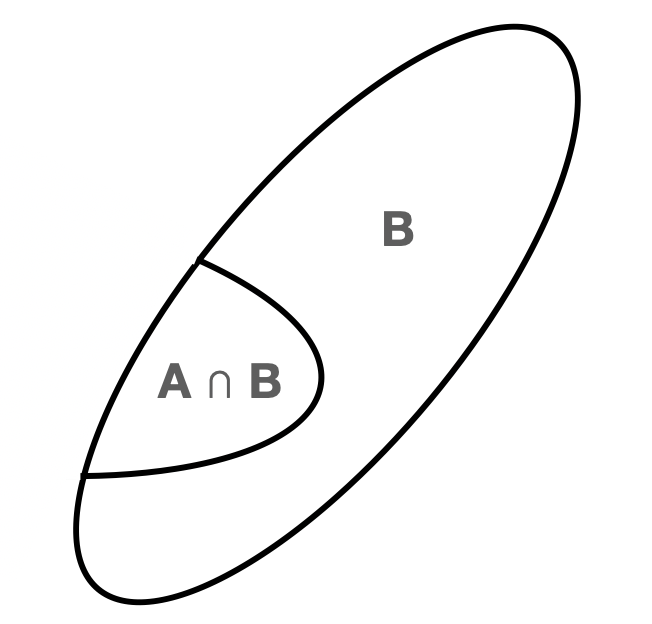
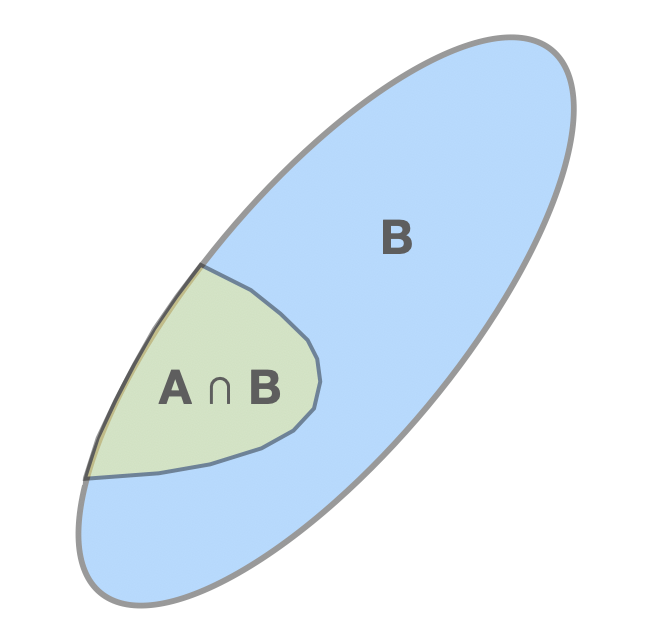
adding color to figures. -pef

diff --git a/01-probability.html b/01-probability.html
@@ -2,17 +2,23 @@
 <html xmlns="http://www.w3.org/1999/xhtml" lang="en" xml:lang="en"><head>
 
 <meta charset="utf-8">
-<meta name="generator" content="quarto-1.7.32">
+<meta name="generator" content="quarto-1.10.18">
 
 <meta name="viewport" content="width=device-width, initial-scale=1.0, user-scalable=yes">
 
 
 <title>1&nbsp; The Basics of Probability and Statistical Inference – Modern Probability and Statistical Inference</title>
 <style>
-code{white-space: pre-wrap;}
+/* Default styles provided by pandoc.
+** See https://pandoc.org/MANUAL.html#variables-for-html for config info.
+*/
 span.smallcaps{font-variant: small-caps;}
-div.columns{display: flex; gap: min(4vw, 1.5em);}
-div.column{flex: auto; overflow-x: auto;}
+div.columns{display: flex; gap: 1.5em;}
+div.column{flex: auto;}
+@media screen {
+div.columns{gap: min(4vw, 1.5em);}
+div.column{overflow-x: auto;}
+}
 div.hanging-indent{margin-left: 1.5em; text-indent: -1.5em;}
 ul.task-list{list-style: none;}
 ul.task-list li input[type="checkbox"] {
@@ -59,7 +65,6 @@ pre > code.sourceCode > span > a:first-child::before { text-decoration: underlin
 div.csl-bib-body { }
 div.csl-entry {
   clear: both;
-  margin-bottom: 0em;
 }
 .hanging-indent div.csl-entry {
   margin-left:2em;
@@ -93,10 +98,10 @@ div.csl-indent {
 <script src="site_libs/quarto-html/tippy.umd.min.js"></script>
 <script src="site_libs/quarto-html/anchor.min.js"></script>
 <link href="site_libs/quarto-html/tippy.css" rel="stylesheet">
-<link href="site_libs/quarto-html/quarto-syntax-highlighting-37eea08aefeeee20ff55810ff984fec1.css" rel="stylesheet" id="quarto-text-highlighting-styles">
+<link href="site_libs/quarto-html/quarto-syntax-highlighting-64a204ab8560d761af7679ceaba22944.css" rel="stylesheet" id="quarto-text-highlighting-styles">
 <script src="site_libs/bootstrap/bootstrap.min.js"></script>
 <link href="site_libs/bootstrap/bootstrap-icons.css" rel="stylesheet">
-<link href="site_libs/bootstrap/bootstrap-485d01fc63b59abcd3ee1bf1e8e2748d.min.css" rel="stylesheet" append-hash="true" id="quarto-bootstrap" data-mode="light">
+<link href="site_libs/bootstrap/bootstrap-d3f7f8e73c8d287b30bcf59c2b563615.min.css" rel="stylesheet" append-hash="true" id="quarto-bootstrap" data-mode="light">
 <script id="quarto-search-options" type="application/json">{
   "location": "sidebar",
   "copy-button": false,
@@ -126,7 +131,7 @@ div.csl-indent {
 }</script>
 
   <script src="https://cdnjs.cloudflare.com/polyfill/v3/polyfill.min.js?features=es6"></script>
-  <script src="https://cdn.jsdelivr.net/npm/mathjax@3/es5/tex-chtml-full.js" type="text/javascript"></script>
+  <script defer="" src="https://cdn.jsdelivr.net/npm/mathjax@4/tex-chtml.js" type="text/javascript"></script>
 
 <script type="text/javascript">
 const typesetMath = (el) => {
@@ -139,7 +144,7 @@ const typesetMath = (el) => {
     var macros = [];
     for (var i = 0; i < mathElements.length; i++) {
       var texText = mathElements[i].firstChild;
-      if (mathElements[i].tagName == "SPAN") {
+      if (mathElements[i].tagName == "SPAN" && texText && texText.data) {
         window.katex.render(texText.data, mathElements[i], {
           displayMode: mathElements[i].classList.contains('display'),
           throwOnError: false,
@@ -551,7 +556,7 @@ Figure&nbsp;1.2: This is an example of a sample space <span class="math inline">
 </ul>
 <p>Regarding the last point above: while we may not know the probability of observing any simple event, there are some things we can say about its long-term relative frequency of occurrence:</p>
 <ol type="1">
-<li>it must be <span class="math inline">\(&gt; 0\)</span> and <span class="math inline">\(\leq 1\)</span>;</li>
+<li>it must be <span class="math inline">\(\geq 0\)</span> and <span class="math inline">\(\leq 1\)</span>;</li>
 <li>the relative frequencies of all simple events in <span class="math inline">\(\Omega\)</span> must sum to 1; and</li>
 <li>the relative frequency of a compound event must equal the sum of the relative frequencies of its component simple events.</li>
 </ol>
@@ -1292,14 +1297,14 @@ V[X] = E[X^2] - (E[X])^2 = \frac{\theta}{\theta+2} - \frac{\theta^2}{(\theta+1)^
 <div class="cell">
 <details class="code-fold">
 <summary>Code</summary>
-<div class="sourceCode cell-code" id="cb3"><pre class="sourceCode r code-with-copy"><code class="sourceCode r"><span id="cb3-1"><a href="#cb3-1" aria-hidden="true" tabindex="-1"></a>x <span class="ot">&lt;-</span> <span class="fu">c</span>(<span class="st">"Hello, world!"</span>)</span></code><button title="Copy to Clipboard" class="code-copy-button"><i class="bi"></i></button></pre></div>
+<div class="code-copy-outer-scaffold"><div class="sourceCode cell-code" id="cb3"><pre class="sourceCode r code-with-copy"><code class="sourceCode r"><span id="cb3-1"><a href="#cb3-1" aria-hidden="true" tabindex="-1"></a>x <span class="ot">&lt;-</span> <span class="fu">c</span>(<span class="st">"Hello, world!"</span>)</span></code></pre></div><button title="Copy to Clipboard" class="code-copy-button"><i class="bi"></i></button></div>
 </details>
 </div>
 <p>(The reader should feel free to open <code>R</code> and type in these lines at the <code>Console</code> prompt.) In this example, we define a vector of character strings which we name <code>x</code>; here, <code>x</code> has length 1:</p>
 <div class="cell">
 <details class="code-fold">
 <summary>Code</summary>
-<div class="sourceCode cell-code" id="cb4"><pre class="sourceCode r code-with-copy"><code class="sourceCode r"><span id="cb4-1"><a href="#cb4-1" aria-hidden="true" tabindex="-1"></a><span class="fu">length</span>(x)</span></code><button title="Copy to Clipboard" class="code-copy-button"><i class="bi"></i></button></pre></div>
+<div class="code-copy-outer-scaffold"><div class="sourceCode cell-code" id="cb4"><pre class="sourceCode r code-with-copy"><code class="sourceCode r"><span id="cb4-1"><a href="#cb4-1" aria-hidden="true" tabindex="-1"></a><span class="fu">length</span>(x)</span></code></pre></div><button title="Copy to Clipboard" class="code-copy-button"><i class="bi"></i></button></div>
 </details>
 <div class="cell-output cell-output-stdout">
 <pre><code>[1] 1</code></pre>
@@ -1309,15 +1314,15 @@ V[X] = E[X^2] - (E[X])^2 = \frac{\theta}{\theta+2} - \frac{\theta^2}{(\theta+1)^
 <div class="cell">
 <details class="code-fold">
 <summary>Code</summary>
-<div class="sourceCode cell-code" id="cb6"><pre class="sourceCode r code-with-copy"><code class="sourceCode r"><span id="cb6-1"><a href="#cb6-1" aria-hidden="true" tabindex="-1"></a>x <span class="ot">&lt;-</span> <span class="fu">c</span>(<span class="dv">1</span>, <span class="dv">2</span>, <span class="dv">4</span>, <span class="dv">8</span>)</span>
-<span id="cb6-2"><a href="#cb6-2" aria-hidden="true" tabindex="-1"></a><span class="fu">print</span>(x)</span></code><button title="Copy to Clipboard" class="code-copy-button"><i class="bi"></i></button></pre></div>
+<div class="code-copy-outer-scaffold"><div class="sourceCode cell-code" id="cb6"><pre class="sourceCode r code-with-copy"><code class="sourceCode r"><span id="cb6-1"><a href="#cb6-1" aria-hidden="true" tabindex="-1"></a>x <span class="ot">&lt;-</span> <span class="fu">c</span>(<span class="dv">1</span>, <span class="dv">2</span>, <span class="dv">4</span>, <span class="dv">8</span>)</span>
+<span id="cb6-2"><a href="#cb6-2" aria-hidden="true" tabindex="-1"></a><span class="fu">print</span>(x)</span></code></pre></div><button title="Copy to Clipboard" class="code-copy-button"><i class="bi"></i></button></div>
 </details>
 <div class="cell-output cell-output-stdout">
 <pre><code>[1] 1 2 4 8</code></pre>
 </div>
 <details class="code-fold">
 <summary>Code</summary>
-<div class="sourceCode cell-code" id="cb8"><pre class="sourceCode r code-with-copy"><code class="sourceCode r"><span id="cb8-1"><a href="#cb8-1" aria-hidden="true" tabindex="-1"></a><span class="fu">length</span>(x)</span></code><button title="Copy to Clipboard" class="code-copy-button"><i class="bi"></i></button></pre></div>
+<div class="code-copy-outer-scaffold"><div class="sourceCode cell-code" id="cb8"><pre class="sourceCode r code-with-copy"><code class="sourceCode r"><span id="cb8-1"><a href="#cb8-1" aria-hidden="true" tabindex="-1"></a><span class="fu">length</span>(x)</span></code></pre></div><button title="Copy to Clipboard" class="code-copy-button"><i class="bi"></i></button></div>
 </details>
 <div class="cell-output cell-output-stdout">
 <pre><code>[1] 4</code></pre>
@@ -1327,9 +1332,9 @@ V[X] = E[X^2] - (E[X])^2 = \frac{\theta}{\theta+2} - \frac{\theta^2}{(\theta+1)^
 <div class="cell">
 <details class="code-fold">
 <summary>Code</summary>
-<div class="sourceCode cell-code" id="cb10"><pre class="sourceCode r code-with-copy"><code class="sourceCode r"><span id="cb10-1"><a href="#cb10-1" aria-hidden="true" tabindex="-1"></a>x <span class="ot">&lt;-</span> <span class="fu">seq</span>(<span class="dv">0</span>, pi, <span class="at">by =</span> <span class="fl">0.01</span>)  <span class="co"># 0, 0.01, 0.02, ..., 3.14 (but not 3.15)</span></span>
+<div class="code-copy-outer-scaffold"><div class="sourceCode cell-code" id="cb10"><pre class="sourceCode r code-with-copy"><code class="sourceCode r"><span id="cb10-1"><a href="#cb10-1" aria-hidden="true" tabindex="-1"></a>x <span class="ot">&lt;-</span> <span class="fu">seq</span>(<span class="dv">0</span>, pi, <span class="at">by =</span> <span class="fl">0.01</span>)  <span class="co"># 0, 0.01, 0.02, ..., 3.14 (but not 3.15)</span></span>
 <span id="cb10-2"><a href="#cb10-2" aria-hidden="true" tabindex="-1"></a>                            <span class="co"># pi and Inf are built-in constants</span></span>
-<span id="cb10-3"><a href="#cb10-3" aria-hidden="true" tabindex="-1"></a><span class="fu">length</span>(x)</span></code><button title="Copy to Clipboard" class="code-copy-button"><i class="bi"></i></button></pre></div>
+<span id="cb10-3"><a href="#cb10-3" aria-hidden="true" tabindex="-1"></a><span class="fu">length</span>(x)</span></code></pre></div><button title="Copy to Clipboard" class="code-copy-button"><i class="bi"></i></button></div>
 </details>
 <div class="cell-output cell-output-stdout">
 <pre><code>[1] 315</code></pre>
@@ -1342,9 +1347,9 @@ f_X(x) = \left\{ \begin{array}{cl} c x \sin x &amp; 0 \leq x \leq \pi \\ 0 &amp;
 <div class="cell">
 <details class="code-fold">
 <summary>Code</summary>
-<div class="sourceCode cell-code" id="cb12"><pre class="sourceCode r code-with-copy"><code class="sourceCode r"><span id="cb12-1"><a href="#cb12-1" aria-hidden="true" tabindex="-1"></a>x   <span class="ot">&lt;-</span> <span class="fu">seq</span>(<span class="dv">0</span>, pi, <span class="at">by =</span> pi <span class="sc">/</span> <span class="dv">100</span>)</span>
+<div class="code-copy-outer-scaffold"><div class="sourceCode cell-code" id="cb12"><pre class="sourceCode r code-with-copy"><code class="sourceCode r"><span id="cb12-1"><a href="#cb12-1" aria-hidden="true" tabindex="-1"></a>x   <span class="ot">&lt;-</span> <span class="fu">seq</span>(<span class="dv">0</span>, pi, <span class="at">by =</span> pi <span class="sc">/</span> <span class="dv">100</span>)</span>
 <span id="cb12-2"><a href="#cb12-2" aria-hidden="true" tabindex="-1"></a>f.x <span class="ot">&lt;-</span> x <span class="sc">*</span> <span class="fu">sin</span>(x)            </span>
-<span id="cb12-3"><a href="#cb12-3" aria-hidden="true" tabindex="-1"></a><span class="fu">min</span>(f.x)</span></code><button title="Copy to Clipboard" class="code-copy-button"><i class="bi"></i></button></pre></div>
+<span id="cb12-3"><a href="#cb12-3" aria-hidden="true" tabindex="-1"></a><span class="fu">min</span>(f.x)</span></code></pre></div><button title="Copy to Clipboard" class="code-copy-button"><i class="bi"></i></button></div>
 </details>
 <div class="cell-output cell-output-stdout">
 <pre><code>[1] 0</code></pre>
@@ -1371,10 +1376,10 @@ Figure&nbsp;1.13: The function <span class="math inline">\(x \sin x\)</span>.
 <div class="cell">
 <details class="code-fold">
 <summary>Code</summary>
-<div class="sourceCode cell-code" id="cb14"><pre class="sourceCode r code-with-copy"><code class="sourceCode r"><span id="cb14-1"><a href="#cb14-1" aria-hidden="true" tabindex="-1"></a>f <span class="ot">&lt;-</span> <span class="cf">function</span>(x) {</span>
+<div class="code-copy-outer-scaffold"><div class="sourceCode cell-code" id="cb14"><pre class="sourceCode r code-with-copy"><code class="sourceCode r"><span id="cb14-1"><a href="#cb14-1" aria-hidden="true" tabindex="-1"></a>f <span class="ot">&lt;-</span> <span class="cf">function</span>(x) {</span>
 <span id="cb14-2"><a href="#cb14-2" aria-hidden="true" tabindex="-1"></a>  <span class="fu">return</span>(x <span class="sc">*</span> <span class="fu">sin</span>(x))</span>
 <span id="cb14-3"><a href="#cb14-3" aria-hidden="true" tabindex="-1"></a>}</span>
-<span id="cb14-4"><a href="#cb14-4" aria-hidden="true" tabindex="-1"></a><span class="fu">integrate</span>(f, <span class="dv">0</span>, pi) <span class="co"># integrate the function f between 0 and pi</span></span></code><button title="Copy to Clipboard" class="code-copy-button"><i class="bi"></i></button></pre></div>
+<span id="cb14-4"><a href="#cb14-4" aria-hidden="true" tabindex="-1"></a><span class="fu">integrate</span>(f, <span class="dv">0</span>, pi) <span class="co"># integrate the function f between 0 and pi</span></span></code></pre></div><button title="Copy to Clipboard" class="code-copy-button"><i class="bi"></i></button></div>
 </details>
 <div class="cell-output cell-output-stdout">
 <pre><code>3.141593 with absolute error &lt; 3.5e-14</code></pre>
@@ -1389,10 +1394,10 @@ f_X(x) = \left\{ \begin{array}{cl} \frac{1}{\pi} x \sin x &amp; 0 \leq x \leq \p
 <div class="cell">
 <details class="code-fold">
 <summary>Code</summary>
-<div class="sourceCode cell-code" id="cb16"><pre class="sourceCode r code-with-copy"><code class="sourceCode r"><span id="cb16-1"><a href="#cb16-1" aria-hidden="true" tabindex="-1"></a>f <span class="ot">&lt;-</span> <span class="cf">function</span>(x) {</span>
+<div class="code-copy-outer-scaffold"><div class="sourceCode cell-code" id="cb16"><pre class="sourceCode r code-with-copy"><code class="sourceCode r"><span id="cb16-1"><a href="#cb16-1" aria-hidden="true" tabindex="-1"></a>f <span class="ot">&lt;-</span> <span class="cf">function</span>(x) {</span>
 <span id="cb16-2"><a href="#cb16-2" aria-hidden="true" tabindex="-1"></a>  <span class="fu">return</span>(x <span class="sc">*</span> <span class="fu">sin</span>(x) <span class="sc">/</span> pi)     <span class="co"># we now include the normalization constant</span></span>
 <span id="cb16-3"><a href="#cb16-3" aria-hidden="true" tabindex="-1"></a>}</span>
-<span id="cb16-4"><a href="#cb16-4" aria-hidden="true" tabindex="-1"></a><span class="fu">integrate</span>(f, <span class="dv">1</span>, <span class="dv">2</span>) <span class="co"># integrate the function f between 1 and 2</span></span></code><button title="Copy to Clipboard" class="code-copy-button"><i class="bi"></i></button></pre></div>
+<span id="cb16-4"><a href="#cb16-4" aria-hidden="true" tabindex="-1"></a><span class="fu">integrate</span>(f, <span class="dv">1</span>, <span class="dv">2</span>) <span class="co"># integrate the function f between 1 and 2</span></span></code></pre></div><button title="Copy to Clipboard" class="code-copy-button"><i class="bi"></i></button></div>
 </details>
 <div class="cell-output cell-output-stdout">
 <pre><code>0.4585007 with absolute error &lt; 5.1e-15</code></pre>
@@ -1403,10 +1408,10 @@ f_X(x) = \left\{ \begin{array}{cl} \frac{1}{\pi} x \sin x &amp; 0 \leq x \leq \p
 <div class="cell">
 <details class="code-fold">
 <summary>Code</summary>
-<div class="sourceCode cell-code" id="cb18"><pre class="sourceCode r code-with-copy"><code class="sourceCode r"><span id="cb18-1"><a href="#cb18-1" aria-hidden="true" tabindex="-1"></a>f <span class="ot">&lt;-</span> <span class="cf">function</span>(x) {</span>
+<div class="code-copy-outer-scaffold"><div class="sourceCode cell-code" id="cb18"><pre class="sourceCode r code-with-copy"><code class="sourceCode r"><span id="cb18-1"><a href="#cb18-1" aria-hidden="true" tabindex="-1"></a>f <span class="ot">&lt;-</span> <span class="cf">function</span>(x) {</span>
 <span id="cb18-2"><a href="#cb18-2" aria-hidden="true" tabindex="-1"></a>  <span class="fu">return</span>(x<span class="sc">^</span><span class="dv">2</span> <span class="sc">*</span> <span class="fu">sin</span>(x) <span class="sc">/</span> pi)     <span class="co"># add an additional x</span></span>
 <span id="cb18-3"><a href="#cb18-3" aria-hidden="true" tabindex="-1"></a>}</span>
-<span id="cb18-4"><a href="#cb18-4" aria-hidden="true" tabindex="-1"></a><span class="fu">integrate</span>(f, <span class="dv">0</span>, pi)</span></code><button title="Copy to Clipboard" class="code-copy-button"><i class="bi"></i></button></pre></div>
+<span id="cb18-4"><a href="#cb18-4" aria-hidden="true" tabindex="-1"></a><span class="fu">integrate</span>(f, <span class="dv">0</span>, pi)</span></code></pre></div><button title="Copy to Clipboard" class="code-copy-button"><i class="bi"></i></button></div>
 </details>
 <div class="cell-output cell-output-stdout">
 <pre><code>1.868353 with absolute error &lt; 2.1e-14</code></pre>
@@ -1425,10 +1430,10 @@ P(1 \leq X \leq 2 \vert X &gt; 0.5) = \frac{P(1 \leq X \leq 2 \cap X &gt; 0.5)}{
 <div class="cell">
 <details class="code-fold">
 <summary>Code</summary>
-<div class="sourceCode cell-code" id="cb20"><pre class="sourceCode r code-with-copy"><code class="sourceCode r"><span id="cb20-1"><a href="#cb20-1" aria-hidden="true" tabindex="-1"></a>f <span class="ot">&lt;-</span> <span class="cf">function</span>(x) {</span>
+<div class="code-copy-outer-scaffold"><div class="sourceCode cell-code" id="cb20"><pre class="sourceCode r code-with-copy"><code class="sourceCode r"><span id="cb20-1"><a href="#cb20-1" aria-hidden="true" tabindex="-1"></a>f <span class="ot">&lt;-</span> <span class="cf">function</span>(x) {</span>
 <span id="cb20-2"><a href="#cb20-2" aria-hidden="true" tabindex="-1"></a>  <span class="fu">return</span>(x <span class="sc">*</span> <span class="fu">sin</span>(x) <span class="sc">/</span> pi)</span>
 <span id="cb20-3"><a href="#cb20-3" aria-hidden="true" tabindex="-1"></a>}</span>
-<span id="cb20-4"><a href="#cb20-4" aria-hidden="true" tabindex="-1"></a><span class="fu">integrate</span>(f, <span class="dv">1</span>, <span class="dv">2</span>) <span class="sc">/</span> <span class="fu">integrate</span>(f, <span class="fl">0.5</span>, pi)</span></code><button title="Copy to Clipboard" class="code-copy-button"><i class="bi"></i></button></pre></div>
+<span id="cb20-4"><a href="#cb20-4" aria-hidden="true" tabindex="-1"></a><span class="fu">integrate</span>(f, <span class="dv">1</span>, <span class="dv">2</span>) <span class="sc">/</span> <span class="fu">integrate</span>(f, <span class="fl">0.5</span>, pi)</span></code></pre></div><button title="Copy to Clipboard" class="code-copy-button"><i class="bi"></i></button></div>
 </details>
 </div>
 <blockquote class="blockquote">
@@ -1437,7 +1442,7 @@ P(1 \leq X \leq 2 \vert X &gt; 0.5) = \frac{P(1 \leq X \leq 2 \cap X &gt; 0.5)}{
 <div class="cell">
 <details class="code-fold">
 <summary>Code</summary>
-<div class="sourceCode cell-code" id="cb21"><pre class="sourceCode r code-with-copy"><code class="sourceCode r"><span id="cb21-1"><a href="#cb21-1" aria-hidden="true" tabindex="-1"></a><span class="fu">names</span>(<span class="fu">integrate</span>(f, <span class="dv">1</span>, <span class="dv">2</span>))  <span class="co"># return the names of each list element</span></span></code><button title="Copy to Clipboard" class="code-copy-button"><i class="bi"></i></button></pre></div>
+<div class="code-copy-outer-scaffold"><div class="sourceCode cell-code" id="cb21"><pre class="sourceCode r code-with-copy"><code class="sourceCode r"><span id="cb21-1"><a href="#cb21-1" aria-hidden="true" tabindex="-1"></a><span class="fu">names</span>(<span class="fu">integrate</span>(f, <span class="dv">1</span>, <span class="dv">2</span>))  <span class="co"># return the names of each list element</span></span></code></pre></div><button title="Copy to Clipboard" class="code-copy-button"><i class="bi"></i></button></div>
 </details>
 <div class="cell-output cell-output-stdout">
 <pre><code>[1] "value"        "abs.error"    "subdivisions" "message"      "call"        </code></pre>
@@ -1449,7 +1454,7 @@ P(1 \leq X \leq 2 \vert X &gt; 0.5) = \frac{P(1 \leq X \leq 2 \cap X &gt; 0.5)}{
 <div class="cell">
 <details class="code-fold">
 <summary>Code</summary>
-<div class="sourceCode cell-code" id="cb23"><pre class="sourceCode r code-with-copy"><code class="sourceCode r"><span id="cb23-1"><a href="#cb23-1" aria-hidden="true" tabindex="-1"></a><span class="fu">integrate</span>(f, <span class="dv">1</span>, <span class="dv">2</span>)<span class="sc">$</span>value <span class="sc">/</span> <span class="fu">integrate</span>(f, <span class="fl">0.5</span>, pi)<span class="sc">$</span>value</span></code><button title="Copy to Clipboard" class="code-copy-button"><i class="bi"></i></button></pre></div>
+<div class="code-copy-outer-scaffold"><div class="sourceCode cell-code" id="cb23"><pre class="sourceCode r code-with-copy"><code class="sourceCode r"><span id="cb23-1"><a href="#cb23-1" aria-hidden="true" tabindex="-1"></a><span class="fu">integrate</span>(f, <span class="dv">1</span>, <span class="dv">2</span>)<span class="sc">$</span>value <span class="sc">/</span> <span class="fu">integrate</span>(f, <span class="fl">0.5</span>, pi)<span class="sc">$</span>value</span></code></pre></div><button title="Copy to Clipboard" class="code-copy-button"><i class="bi"></i></button></div>
 </details>
 <div class="cell-output cell-output-stdout">
 <pre><code>[1] 0.3836833</code></pre>
@@ -1467,7 +1472,7 @@ P(1 \leq X \leq 2 \vert X &gt; 0.5) = \frac{P(1 \leq X \leq 2 \cap X &gt; 0.5)}{
 <div class="cell">
 <details class="code-fold">
 <summary>Code</summary>
-<div class="sourceCode cell-code" id="cb25"><pre class="sourceCode r code-with-copy"><code class="sourceCode r"><span id="cb25-1"><a href="#cb25-1" aria-hidden="true" tabindex="-1"></a>f <span class="ot">&lt;-</span> <span class="cf">function</span>(x) {</span>
+<div class="code-copy-outer-scaffold"><div class="sourceCode cell-code" id="cb25"><pre class="sourceCode r code-with-copy"><code class="sourceCode r"><span id="cb25-1"><a href="#cb25-1" aria-hidden="true" tabindex="-1"></a>f <span class="ot">&lt;-</span> <span class="cf">function</span>(x) {</span>
 <span id="cb25-2"><a href="#cb25-2" aria-hidden="true" tabindex="-1"></a>  <span class="fu">return</span>(x<span class="sc">^</span><span class="dv">2</span> <span class="sc">*</span> <span class="fu">sin</span>(x) <span class="sc">/</span> pi)     <span class="co"># same code as above</span></span>
 <span id="cb25-3"><a href="#cb25-3" aria-hidden="true" tabindex="-1"></a>}</span>
 <span id="cb25-4"><a href="#cb25-4" aria-hidden="true" tabindex="-1"></a>E.X <span class="ot">&lt;-</span> <span class="fu">integrate</span>(f, <span class="dv">0</span>, pi)<span class="sc">$</span>value</span>
@@ -1476,14 +1481,14 @@ P(1 \leq X \leq 2 \vert X &gt; 0.5) = \frac{P(1 \leq X \leq 2 \cap X &gt; 0.5)}{
 <span id="cb25-7"><a href="#cb25-7" aria-hidden="true" tabindex="-1"></a>  <span class="fu">return</span>(x<span class="sc">^</span><span class="dv">3</span> <span class="sc">*</span> <span class="fu">sin</span>(x) <span class="sc">/</span> pi)     <span class="co"># add one more power of x</span></span>
 <span id="cb25-8"><a href="#cb25-8" aria-hidden="true" tabindex="-1"></a>}</span>
 <span id="cb25-9"><a href="#cb25-9" aria-hidden="true" tabindex="-1"></a>V.X <span class="ot">&lt;-</span> <span class="fu">integrate</span>(f, <span class="dv">0</span>, pi)<span class="sc">$</span>value <span class="sc">-</span> E.X<span class="sc">^</span><span class="dv">2</span></span>
-<span id="cb25-10"><a href="#cb25-10" aria-hidden="true" tabindex="-1"></a>V.X </span></code><button title="Copy to Clipboard" class="code-copy-button"><i class="bi"></i></button></pre></div>
+<span id="cb25-10"><a href="#cb25-10" aria-hidden="true" tabindex="-1"></a>V.X </span></code></pre></div><button title="Copy to Clipboard" class="code-copy-button"><i class="bi"></i></button></div>
 </details>
 <div class="cell-output cell-output-stdout">
 <pre><code>[1] 0.3788611</code></pre>
 </div>
 <details class="code-fold">
 <summary>Code</summary>
-<div class="sourceCode cell-code" id="cb27"><pre class="sourceCode r code-with-copy"><code class="sourceCode r"><span id="cb27-1"><a href="#cb27-1" aria-hidden="true" tabindex="-1"></a><span class="fu">sqrt</span>(V.X)</span></code><button title="Copy to Clipboard" class="code-copy-button"><i class="bi"></i></button></pre></div>
+<div class="code-copy-outer-scaffold"><div class="sourceCode cell-code" id="cb27"><pre class="sourceCode r code-with-copy"><code class="sourceCode r"><span id="cb27-1"><a href="#cb27-1" aria-hidden="true" tabindex="-1"></a><span class="fu">sqrt</span>(V.X)</span></code></pre></div><button title="Copy to Clipboard" class="code-copy-button"><i class="bi"></i></button></div>
 </details>
 <div class="cell-output cell-output-stdout">
 <pre><code>[1] 0.6155169</code></pre>
@@ -1495,10 +1500,10 @@ P(1 \leq X \leq 2 \vert X &gt; 0.5) = \frac{P(1 \leq X \leq 2 \cap X &gt; 0.5)}{
 <div class="cell">
 <details class="code-fold">
 <summary>Code</summary>
-<div class="sourceCode cell-code" id="cb29"><pre class="sourceCode r code-with-copy"><code class="sourceCode r"><span id="cb29-1"><a href="#cb29-1" aria-hidden="true" tabindex="-1"></a>f <span class="ot">&lt;-</span> <span class="cf">function</span>(x) {</span>
+<div class="code-copy-outer-scaffold"><div class="sourceCode cell-code" id="cb29"><pre class="sourceCode r code-with-copy"><code class="sourceCode r"><span id="cb29-1"><a href="#cb29-1" aria-hidden="true" tabindex="-1"></a>f <span class="ot">&lt;-</span> <span class="cf">function</span>(x) {</span>
 <span id="cb29-2"><a href="#cb29-2" aria-hidden="true" tabindex="-1"></a>  <span class="fu">return</span>(x <span class="sc">*</span> <span class="fu">sin</span>(x) <span class="sc">/</span>pi)       <span class="co"># back to the original pdf</span></span>
 <span id="cb29-3"><a href="#cb29-3" aria-hidden="true" tabindex="-1"></a>}</span>
-<span id="cb29-4"><a href="#cb29-4" aria-hidden="true" tabindex="-1"></a><span class="fu">integrate</span>(f, E.X <span class="sc">-</span> <span class="fu">sqrt</span>(V.X), E.X <span class="sc">+</span> <span class="fu">sqrt</span>(V.X))<span class="sc">$</span>value</span></code><button title="Copy to Clipboard" class="code-copy-button"><i class="bi"></i></button></pre></div>
+<span id="cb29-4"><a href="#cb29-4" aria-hidden="true" tabindex="-1"></a><span class="fu">integrate</span>(f, E.X <span class="sc">-</span> <span class="fu">sqrt</span>(V.X), E.X <span class="sc">+</span> <span class="fu">sqrt</span>(V.X))<span class="sc">$</span>value</span></code></pre></div><button title="Copy to Clipboard" class="code-copy-button"><i class="bi"></i></button></div>
 </details>
 <div class="cell-output cell-output-stdout">
 <pre><code>[1] 0.642609</code></pre>
@@ -1971,11 +1976,11 @@ F_X(x) = \frac{1}{\pi}\left( \sin x - x \cos x \right) \,,
 <div class="cell">
 <details class="code-fold">
 <summary>Code</summary>
-<div class="sourceCode cell-code" id="cb31"><pre class="sourceCode r code-with-copy"><code class="sourceCode r"><span id="cb31-1"><a href="#cb31-1" aria-hidden="true" tabindex="-1"></a>f <span class="ot">&lt;-</span> <span class="cf">function</span>(x)</span>
+<div class="code-copy-outer-scaffold"><div class="sourceCode cell-code" id="cb31"><pre class="sourceCode r code-with-copy"><code class="sourceCode r"><span id="cb31-1"><a href="#cb31-1" aria-hidden="true" tabindex="-1"></a>f <span class="ot">&lt;-</span> <span class="cf">function</span>(x)</span>
 <span id="cb31-2"><a href="#cb31-2" aria-hidden="true" tabindex="-1"></a>{</span>
 <span id="cb31-3"><a href="#cb31-3" aria-hidden="true" tabindex="-1"></a>  (<span class="fu">sin</span>(x) <span class="sc">+</span> x <span class="sc">*</span> <span class="fu">cos</span>(x)) <span class="sc">/</span> pi</span>
 <span id="cb31-4"><a href="#cb31-4" aria-hidden="true" tabindex="-1"></a>}</span>
-<span id="cb31-5"><a href="#cb31-5" aria-hidden="true" tabindex="-1"></a><span class="fu">uniroot</span>(f, <span class="at">interval =</span> <span class="fu">c</span>(<span class="fl">0.01</span>, pi))<span class="sc">$</span>root</span></code><button title="Copy to Clipboard" class="code-copy-button"><i class="bi"></i></button></pre></div>
+<span id="cb31-5"><a href="#cb31-5" aria-hidden="true" tabindex="-1"></a><span class="fu">uniroot</span>(f, <span class="at">interval =</span> <span class="fu">c</span>(<span class="fl">0.01</span>, pi))<span class="sc">$</span>root</span></code></pre></div><button title="Copy to Clipboard" class="code-copy-button"><i class="bi"></i></button></div>
 </details>
 <div class="cell-output cell-output-stdout">
 <pre><code>[1] 2.028758</code></pre>
@@ -2411,13 +2416,13 @@ H_X(x \vert \theta) = \left\{ \begin{array}{cl} 0 &amp; x &lt; 0 \\ x^2/2\theta 
 <div class="cell">
 <details class="code-fold">
 <summary>Code</summary>
-<div class="sourceCode cell-code" id="cb36"><pre class="sourceCode r code-with-copy"><code class="sourceCode r"><span id="cb36-1"><a href="#cb36-1" aria-hidden="true" tabindex="-1"></a><span class="fu">set.seed</span>(<span class="dv">101</span>)</span>
+<div class="code-copy-outer-scaffold"><div class="sourceCode cell-code" id="cb36"><pre class="sourceCode r code-with-copy"><code class="sourceCode r"><span id="cb36-1"><a href="#cb36-1" aria-hidden="true" tabindex="-1"></a><span class="fu">set.seed</span>(<span class="dv">101</span>)</span>
 <span id="cb36-2"><a href="#cb36-2" aria-hidden="true" tabindex="-1"></a>n           <span class="ot">&lt;-</span> <span class="dv">100</span></span>
 <span id="cb36-3"><a href="#cb36-3" aria-hidden="true" tabindex="-1"></a>theta       <span class="ot">&lt;-</span> <span class="fl">1.5</span></span>
 <span id="cb36-4"><a href="#cb36-4" aria-hidden="true" tabindex="-1"></a>q           <span class="ot">&lt;-</span> <span class="fu">runif</span>(n, <span class="at">min =</span> <span class="dv">0</span>, <span class="at">max =</span> <span class="dv">1</span>)</span>
 <span id="cb36-5"><a href="#cb36-5" aria-hidden="true" tabindex="-1"></a>w           <span class="ot">&lt;-</span> <span class="fu">which</span>(q <span class="sc">&lt;</span> <span class="dv">1</span> <span class="sc">/</span> (<span class="dv">2</span> <span class="sc">*</span> theta))</span>
 <span id="cb36-6"><a href="#cb36-6" aria-hidden="true" tabindex="-1"></a>X.sample    <span class="ot">&lt;-</span> <span class="fu">rep</span>(<span class="dv">2</span>, n)</span>
-<span id="cb36-7"><a href="#cb36-7" aria-hidden="true" tabindex="-1"></a>X.sample[w] <span class="ot">&lt;-</span> <span class="fu">sqrt</span>(<span class="dv">2</span> <span class="sc">*</span> theta <span class="sc">*</span> q[w])</span></code><button title="Copy to Clipboard" class="code-copy-button"><i class="bi"></i></button></pre></div>
+<span id="cb36-7"><a href="#cb36-7" aria-hidden="true" tabindex="-1"></a>X.sample[w] <span class="ot">&lt;-</span> <span class="fu">sqrt</span>(<span class="dv">2</span> <span class="sc">*</span> theta <span class="sc">*</span> q[w])</span></code></pre></div><button title="Copy to Clipboard" class="code-copy-button"><i class="bi"></i></button></div>
 </details>
 </div>
 <blockquote class="blockquote">
@@ -2914,7 +2919,7 @@ f_X(x) = \theta x^{\theta-1} \,,
 <div class="cell">
 <details class="code-fold">
 <summary>Code</summary>
-<div class="sourceCode cell-code" id="cb39"><pre class="sourceCode r code-with-copy"><code class="sourceCode r"><span id="cb39-1"><a href="#cb39-1" aria-hidden="true" tabindex="-1"></a><span class="fu">set.seed</span>(<span class="dv">101</span>)</span>
+<div class="code-copy-outer-scaffold"><div class="sourceCode cell-code" id="cb39"><pre class="sourceCode r code-with-copy"><code class="sourceCode r"><span id="cb39-1"><a href="#cb39-1" aria-hidden="true" tabindex="-1"></a><span class="fu">set.seed</span>(<span class="dv">101</span>)</span>
 <span id="cb39-2"><a href="#cb39-2" aria-hidden="true" tabindex="-1"></a></span>
 <span id="cb39-3"><a href="#cb39-3" aria-hidden="true" tabindex="-1"></a>n           <span class="ot">&lt;-</span> <span class="dv">1</span></span>
 <span id="cb39-4"><a href="#cb39-4" aria-hidden="true" tabindex="-1"></a>num.sim     <span class="ot">&lt;-</span> <span class="dv">10000</span></span>
@@ -2924,7 +2929,7 @@ f_X(x) = \theta x^{\theta-1} \,,
 <span id="cb39-8"><a href="#cb39-8" aria-hidden="true" tabindex="-1"></a>hat.theta.L <span class="ot">&lt;-</span> <span class="sc">-</span><span class="fl">0.0253</span><span class="sc">/</span><span class="fu">log</span>(y.obs)</span>
 <span id="cb39-9"><a href="#cb39-9" aria-hidden="true" tabindex="-1"></a>hat.theta.U <span class="ot">&lt;-</span> <span class="sc">-</span><span class="fl">3.689</span><span class="sc">/</span><span class="fu">log</span>(y.obs)</span>
 <span id="cb39-10"><a href="#cb39-10" aria-hidden="true" tabindex="-1"></a></span>
-<span id="cb39-11"><a href="#cb39-11" aria-hidden="true" tabindex="-1"></a>(coverage   <span class="ot">&lt;-</span> <span class="fu">sum</span>(theta <span class="sc">&gt;=</span> hat.theta.L <span class="sc">&amp;</span> theta <span class="sc">&lt;=</span> hat.theta.U) <span class="sc">/</span> num.sim)</span></code><button title="Copy to Clipboard" class="code-copy-button"><i class="bi"></i></button></pre></div>
+<span id="cb39-11"><a href="#cb39-11" aria-hidden="true" tabindex="-1"></a>(coverage   <span class="ot">&lt;-</span> <span class="fu">sum</span>(theta <span class="sc">&gt;=</span> hat.theta.L <span class="sc">&amp;</span> theta <span class="sc">&lt;=</span> hat.theta.U) <span class="sc">/</span> num.sim)</span></code></pre></div><button title="Copy to Clipboard" class="code-copy-button"><i class="bi"></i></button></div>
 </details>
 <div class="cell-output cell-output-stdout">
 <pre><code>[1] 0.9523</code></pre>
@@ -3138,7 +3143,7 @@ Figure&nbsp;1.37: The empirical distribution of <span class="math inline">\(p\)<
 <div class="cell">
 <details class="code-fold">
 <summary>Code</summary>
-<div class="sourceCode cell-code" id="cb42"><pre class="sourceCode r code-with-copy"><code class="sourceCode r"><span id="cb42-1"><a href="#cb42-1" aria-hidden="true" tabindex="-1"></a><span class="fu">set.seed</span>(<span class="dv">101</span>)</span>
+<div class="code-copy-outer-scaffold"><div class="sourceCode cell-code" id="cb42"><pre class="sourceCode r code-with-copy"><code class="sourceCode r"><span id="cb42-1"><a href="#cb42-1" aria-hidden="true" tabindex="-1"></a><span class="fu">set.seed</span>(<span class="dv">101</span>)</span>
 <span id="cb42-2"><a href="#cb42-2" aria-hidden="true" tabindex="-1"></a></span>
 <span id="cb42-3"><a href="#cb42-3" aria-hidden="true" tabindex="-1"></a>n        <span class="ot">&lt;-</span> <span class="dv">1</span></span>
 <span id="cb42-4"><a href="#cb42-4" aria-hidden="true" tabindex="-1"></a>num.sim  <span class="ot">&lt;-</span> <span class="dv">10000</span></span>
@@ -3147,7 +3152,7 @@ Figure&nbsp;1.37: The empirical distribution of <span class="math inline">\(p\)<
 <span id="cb42-7"><a href="#cb42-7" aria-hidden="true" tabindex="-1"></a></span>
 <span id="cb42-8"><a href="#cb42-8" aria-hidden="true" tabindex="-1"></a>Y        <span class="ot">&lt;-</span> <span class="fu">rbeta</span>(n <span class="sc">*</span> num.sim, <span class="dv">1</span>, theta.o)</span>
 <span id="cb42-9"><a href="#cb42-9" aria-hidden="true" tabindex="-1"></a></span>
-<span id="cb42-10"><a href="#cb42-10" aria-hidden="true" tabindex="-1"></a>(p       <span class="ot">&lt;-</span> <span class="fu">sum</span>(Y <span class="sc">&gt;=</span> y.obs) <span class="sc">/</span> num.sim)</span></code><button title="Copy to Clipboard" class="code-copy-button"><i class="bi"></i></button></pre></div>
+<span id="cb42-10"><a href="#cb42-10" aria-hidden="true" tabindex="-1"></a>(p       <span class="ot">&lt;-</span> <span class="fu">sum</span>(Y <span class="sc">&gt;=</span> y.obs) <span class="sc">/</span> num.sim)</span></code></pre></div><button title="Copy to Clipboard" class="code-copy-button"><i class="bi"></i></button></div>
 </details>
 <div class="cell-output cell-output-stdout">
 <pre><code>[1] 0.0108</code></pre>
@@ -3364,7 +3369,7 @@ F_X(x) = 1 - e^{-(x-2)/\theta} \,,
 </ol>
 
 
-<div id="refs" class="references csl-bib-body hanging-indent" data-entry-spacing="0" role="list" style="display: none">
+<div id="refs" class="references csl-bib-body hanging-indent" role="list" style="display: none">
 <div id="ref-casella2002" class="csl-entry" role="listitem">
 Casella, G., and R. L. Berger. 2002. <em>Statistical Inference</em>. 2nd ed. Duxbury Belmont, CA.
 </div>
@@ -3429,13 +3434,14 @@ Ross, S. 1988. <em>A First Course in Probability</em>. 3rd ed. Macmillan New Yor
       e.clearSelection();
     }
     const getTextToCopy = function(trigger) {
-        const codeEl = trigger.previousElementSibling.cloneNode(true);
-        for (const childEl of codeEl.children) {
-          if (isCodeAnnotation(childEl)) {
-            childEl.remove();
-          }
+      const outerScaffold = trigger.parentElement.cloneNode(true);
+      const codeEl = outerScaffold.querySelector('code');
+      for (const childEl of codeEl.children) {
+        if (isCodeAnnotation(childEl)) {
+          childEl.remove();
         }
-        return codeEl.innerText;
+      }
+      return codeEl.innerText;
     }
     const clipboard = new window.ClipboardJS('.code-copy-button:not([data-in-quarto-modal])', {
       text: getTextToCopy
